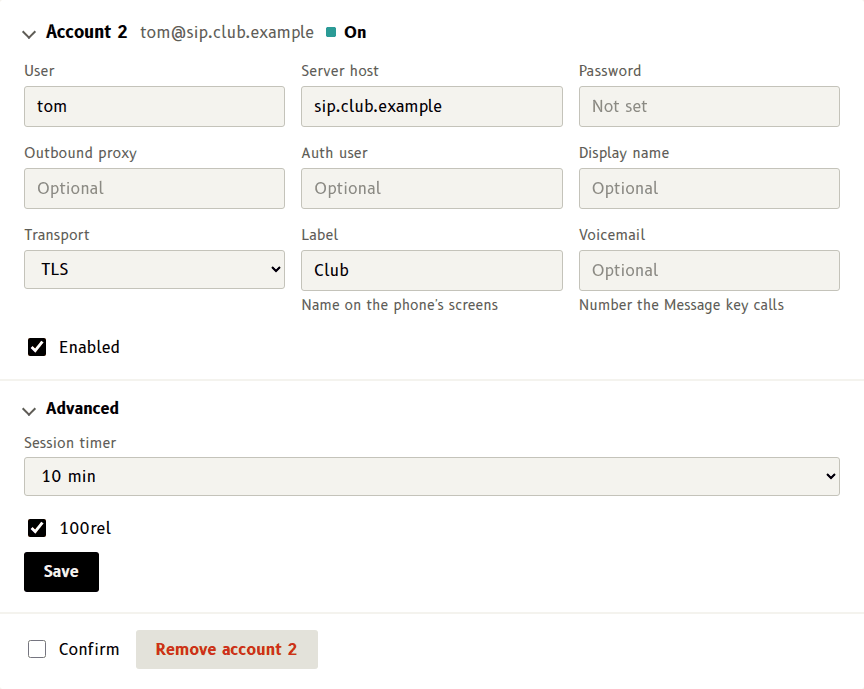
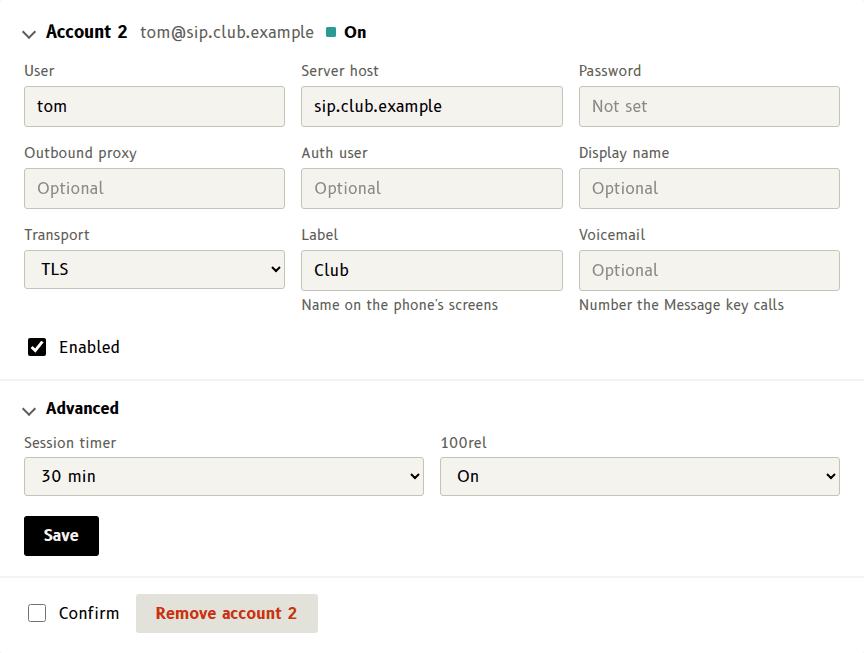
Session timers: review fixes, off by default
Off by default, as stock Yealink and Polycom phones ship; on per account with an interval (5 min to 1 h on the screens), and the docs say to turn it on if a provider drops calls at a fixed time. t48timer: a 100 Trying to a refresh UPDATE no longer drops the request, so the 200 is still taken; a refresh due while the call is mid re-INVITE waits 3 s; Session-Expires under 90 s gets 422 with Min-SE: 90; the timer list is emptied at shutdown; a lost session hangs up with "Session expired". 100rel is a choice on the phone and the web page, and Required, set by hand, is shown and kept. Tests: UPDATE answered 100 then 200, 422, the default off. Issue #77.

diff --git a/sip/modules/t48timer/t48timer.c b/sip/modules/t48timer/t48timer.c
@@ -5,13 +5,14 @@
  * the call's request now and then, so that proxies and B2BUAs keeping state
  * for it know it is still up; a call that is not refreshed in time is ended.
  *
- * An account with ;timer=N (seconds, 90 or more; t48-sip writes it):
+ * Off unless an account has ;timer=N (seconds, 90 or more; t48-sip writes
+ * it for session_timer=N):
  *  - says Supported: timer, so a caller that requires timers is answered
  *    rather than refused with 420;
  *  - asks for Session-Expires: N on the calls it makes;
  *  - on a call it is offered with Session-Expires, answers with the same
  *    interval and a refresher: the one the caller named, else the caller if
- *    it supports timers, else us;
+ *    it supports timers, else us; one below 90 s gets 422 and Min-SE: 90;
  *  - when it is the refresher, sends UPDATE with Session-Expires every half
  *    interval, or a re-INVITE if the other side does not allow UPDATE or
  *    refuses one. A refresh that times out or gets 408 or 481 ends the call,
@@ -29,7 +30,10 @@
 #include <re.h>
 #include <baresip.h>
 
-enum { MIN_SE = 90 };
+enum {
+	MIN_SE = 90,          /* RFC 4028's floor */
+	BUSY_MS = 3000,       /* refresh again when the call is mid-request */
+};
 
 struct st {
 	struct le le;
@@ -40,6 +44,8 @@ struct st {
 	bool refresher;          /* we refresh */
 	bool update;             /* the other side allows UPDATE */
 };
+
+static void refresh(void *arg);
 
 static struct list stl;
 
@@ -104,9 +110,6 @@ static bool allows_update(const struct sip_msg *msg)
 }
 
 
-static void refresh(void *arg);
-
-
 static void schedule(struct st *st)
 {
 	tmr_start(&st->tmr, st->se * 1000 / 2, refresh, st);
@@ -143,15 +146,18 @@ static void resp_handler(int err, const struct sip_msg *msg, void *arg)
 	uint32_t se;
 	char r;
 
+	/* a provisional answer: the request goes on */
+	if (!err && msg->scode < 200)
+		return;
 	st->req = mem_deref(st->req);
 	if (err || msg->scode == 408 || msg->scode == 481) {
 		info("t48timer: refresh failed (%m %u), call ended\n", err,
 		     msg ? msg->scode : 0);
-		ua_hangup(call_get_ua(st->call), st->call, 0, NULL);
+		/* closes the call, and with it this st */
+		ua_hangup(call_get_ua(st->call), st->call, 0,
+			  "Session expired");
 		return;
 	}
-	if (msg->scode < 200)
-		return;
 	if (msg->scode >= 300) {
 		/* no UPDATE here after all, or a clash: a re-INVITE instead */
 		info("t48timer: UPDATE refused (%u), re-INVITE instead\n",
@@ -179,6 +185,11 @@ static void refresh(void *arg)
 	struct sipsess *sess = call_sipsess(st->call);
 	int err;
 
+	/* a re-INVITE or UPDATE of the call's own is under way: soon */
+	if (!call_refresh_allowed(st->call)) {
+		tmr_start(&st->tmr, BUSY_MS, refresh, st);
+		return;
+	}
 	if (!st->update || !sess) {
 		reinvite(st);
 		return;
@@ -215,6 +226,18 @@ static struct st *st_new(struct call *call, uint32_t se, bool refresher,
 }
 
 
+static void too_small(void *arg)
+{
+	struct st *st = arg;
+
+	info("t48timer: %s: Session-Expires %u below %u, refused\n",
+	     call_id(st->call), st->se, MIN_SE);
+	/* closes the call, and with it this st */
+	ua_hangupf(call_get_ua(st->call), st->call, 422,
+		   "Session Interval Too Small", "Min-SE: %u\r\n", MIN_SE);
+}
+
+
 /* an incoming call offered with Session-Expires: answer with it */
 static void incoming(struct call *call)
 {
@@ -232,6 +255,14 @@ static void incoming(struct call *call)
 		/* baresip gave the call the account's own Session-Expires,
 		 * which is for the calls it makes */
 		call_set_custom_hdrs(call, &hdrs);
+		return;
+	}
+	if (se < MIN_SE) {
+		/* RFC 4028: 422 with our floor, and the caller tries again.
+		 * Not from inside this event: others still get the call. */
+		struct st *st = st_new(call, se, false, false);
+		if (st)
+			tmr_start(&st->tmr, 0, too_small, st);
 		return;
 	}
 	supports = sip_msg_hdr_has_value(msg, SIP_HDR_SUPPORTED, "timer") ||
@@ -283,6 +314,10 @@ static void event_handler(enum bevent_ev ev, struct bevent *event, void *arg)
 	struct call *call = bevent_get_call(event);
 	(void)arg;
 
+	if (ev == BEVENT_SHUTDOWN) {
+		list_flush(&stl);
+		return;
+	}
 	if (!call)
 		return;
 	switch (ev) {
@@ -301,7 +336,11 @@ static void event_handler(enum bevent_ev ev, struct bevent *event, void *arg)
 }
 
 
-/* every account with a timer offers it, and asks for it on its calls */
+/* every account with a timer offers it, and asks for it on its calls. The
+ * header goes in the account's custom headers, which baresip copies into
+ * each call it makes (and each it is offered: incoming() takes it out
+ * again). REGISTER does not get it: its copy was taken when the account
+ * was loaded, before this module starts (config: after account.so). */
 static bool ua_setup(struct le *le, void *arg)
 {
 	struct ua *ua = le->data;

diff --git a/webconfig/tests/test_web.py b/webconfig/tests/test_web.py
@@ -491,33 +491,42 @@ class Paired(unittest.TestCase):
         self.assertIsNone(p.get("phone", "dialplan"))
 
     def test_12_account_interop(self):
-        # an account's Advanced part: session timer and 100rel (issue #77)
+        # an account's Advanced part: session timer and 100rel, both off by default (issue #77)
         b, p = self.b, self.p
         base = {"n": "3", "user": "4004", "domain": "pbx.example.org", "transport": "udp", "enabled": "on"}
-        self.ok("/accounts/save", dict(base, session_timer="1800"), "/accounts")
+        self.ok("/accounts/save", dict(base, session_timer="off", **{"100rel": "off"}), "/accounts")
         self.assertIsNone(p.get("sip3", "session_timer"))          # the defaults are not written
         self.assertIsNone(p.get("sip3", "100rel"))
         page = b.get("/accounts").body
         self.assertIn("<span>Session timer</span>", page)
-        self.assertIn("<option value='1800' selected>30 min</option>", page)
+        self.assertIn("<option value='off' selected>Off</option><option value='300'>5 min</option>", page)
+        self.assertNotIn("value='90'", page)
+        self.assertNotIn("value='required'", page)
         self.assertIn("<details class='sub'><summary>Advanced</summary>", page)   # closed while all is usual
-        self.ok("/accounts/save", dict(base, session_timer="off", **{"100rel": "on"}), "/accounts")
-        self.assertEqual(p.get("sip3", "session_timer"), "off")
+        self.ok("/accounts/save", dict(base, session_timer="1800", **{"100rel": "on"}), "/accounts")
+        self.assertEqual(p.get("sip3", "session_timer"), "1800")
         self.assertEqual(p.get("sip3", "100rel"), "on")
         page = b.get("/accounts").body
-        self.assertIn("<option value='off' selected>Off</option>", page)
-        self.assertIn("name='100rel' value='on' checked", page)
+        self.assertIn("<option value='1800' selected>30 min</option>", page)
+        self.assertIn("<option value='on' selected>On</option>", page)
         self.assertIn("<details class='sub' open><summary>Advanced</summary>", page)
-        self.ok("/accounts/save", dict(base, session_timer="90"), "/accounts")
-        self.assertEqual(p.get("sip3", "session_timer"), "90")
-        self.assertIsNone(p.get("sip3", "100rel"))
-        # a value not on the list is refused and the stored one kept; one set by hand in the file is shown and kept
-        self.ok("/accounts/save", dict(base, session_timer="5"), "/accounts")
-        self.assertEqual(p.get("sip3", "session_timer"), "90")
+        # values not on the list are refused and the stored ones kept, as is a form without the part
+        self.ok("/accounts/save", dict(base, session_timer="5", **{"100rel": "maybe"}), "/accounts")
+        self.ok("/accounts/save", base, "/accounts")
+        self.assertEqual(p.get("sip3", "session_timer"), "1800")
+        self.assertEqual(p.get("sip3", "100rel"), "on")
+        # set by hand in the file: shown, and kept by a save that leaves them as they are
         p.set("sip3", "session_timer", "1200")
-        self.assertIn("<option value='1200' selected>1200 s</option>", b.get("/accounts").body)
-        self.ok("/accounts/save", dict(base, session_timer="1200"), "/accounts")
+        p.set("sip3", "100rel", "required")
+        page = b.get("/accounts").body
+        self.assertIn("<option value='1200' selected>1200 s</option>", page)
+        self.assertIn("<option value='required' selected>Required</option>", page)
+        self.ok("/accounts/save", dict(base, session_timer="1200", **{"100rel": "required"}), "/accounts")
         self.assertEqual(p.get("sip3", "session_timer"), "1200")
+        self.assertEqual(p.get("sip3", "100rel"), "required")
+        self.ok("/accounts/save", dict(base, session_timer="off", **{"100rel": "off"}), "/accounts")
+        self.assertIsNone(p.get("sip3", "session_timer"))
+        self.assertIsNone(p.get("sip3", "100rel"))
         self.ok("/accounts/remove", {"n": "3", "sure": "yes"}, "/accounts")
 
     def test_20_network(self):

diff --git a/webconfig/pages.c b/webconfig/pages.c
@@ -281,23 +281,28 @@ void page_overview(struct req *r)
 /* ---------- phone accounts ---------- */
 
 /* An account's Advanced part (issue #77, docs/sip.md#interoperability): session timer and 100rel.
- * Open when either is not the default. */
-static const char *const session_timers[][2] = {{"off", "Off"}, {"90", "90 s"}, {"600", "10 min"}, {"1800", "30 min"}, {"3600", "1 h"}};
+ * Open when either is not the default (off). */
+static const char *const session_timers[][2] = {{"off", "Off"}, {"300", "5 min"}, {"600", "10 min"}, {"1800", "30 min"}, {"3600", "1 h"}};
 #define NTIMERS ((int)(sizeof session_timers / sizeof session_timers[0]))
+/* required is listed only for a file that already says it */
+static const char *const rel100s[][2] = {{"off", "Off"}, {"on", "On"}, {"required", "Required"}};
 
 static void account_advanced(const char *f)
 {
-    const char *st = val(f, "session_timer", "1800");
-    int rel = !strcmp(val(f, "100rel", "off"), "on"), known = 0;
-    H("<details class='sub'%r><summary>Advanced</summary><div class='fields'>", strcmp(st, "1800") || rel ? " open" : "");
+    const char *st = val(f, "session_timer", "off"), *rel = val(f, "100rel", "off");
+    int known = 0;
+    H("<details class='sub'%r><summary>Advanced</summary><div class='fields'>", strcmp(st, "off") || strcmp(rel, "off") ? " open" : "");
     H("<label class='field'><span>Session timer</span><select name='session_timer'>");
     for (int i = 0; i < NTIMERS; i++) {
         known |= !strcmp(st, session_timers[i][0]);
         H("<option value='%s'%r>%s</option>", session_timers[i][0], !strcmp(st, session_timers[i][0]) ? " selected" : "", session_timers[i][1]);
     }
     if (!known) H("<option value='%s' selected>%s s</option>", st, st);   /* set by hand in the file: kept */
-    H("</select></label></div><label class='check'><input type='checkbox' name='100rel' value='on'%r> 100rel</label></details>",
-      rel ? " checked" : "");
+    H("</select></label><label class='field'><span>100rel</span><select name='100rel'>");
+    for (int i = 0; i < 3; i++)
+        if (i < 2 || !strcmp(rel, "required"))
+            H("<option value='%s'%r>%s</option>", rel100s[i][0], !strcmp(rel, rel100s[i][0]) ? " selected" : "", rel100s[i][1]);
+    H("</select></label></div></details>");
 }
 
 static void page_accounts(struct req *r)
@@ -403,14 +408,17 @@ static void post_account_save(struct req *r)
         return;
     }
     if (strcmp(tr, "udp") && strcmp(tr, "tcp") && strcmp(tr, "tls")) tr = "udp";
-    /* the Advanced part: the defaults are not written; an interval set by hand in the file comes back as it was */
-    const char *st = form(r, "session_timer");
-    int st_ok = !strcmp(st, val(f, "session_timer", "1800"));
+    /* the Advanced part: off, the default, is not written; a value set by hand in the file comes back as it was;
+     * anything else (or a form without the part) leaves the file alone */
+    const char *st = form(r, "session_timer"), *rel = form(r, "100rel");
+    int st_ok = !strcmp(st, val(f, "session_timer", "off")), rel_ok = !strcmp(rel, val(f, "100rel", "off"));
     for (int i = 0; i < NTIMERS; i++) st_ok |= !strcmp(st, session_timers[i][0]);
-    if (!st_ok || !strcmp(st, "1800")) st = st_ok ? "" : NULL;
+    rel_ok |= !strcmp(rel, "off") || !strcmp(rel, "on");
+    st = !st_ok ? NULL : !strcmp(st, "off") ? "" : st;
+    rel = !rel_ok ? NULL : !strcmp(rel, "off") ? "" : rel;
     for (int i = 0; i < 7 && ok; i++) ok = set(f, keys[i], v[i]) == 0;
     if (ok && st) ok = set(f, "session_timer", st) == 0;
-    if (ok) ok = set(f, "100rel", !strcmp(form(r, "100rel"), "on") ? "on" : NULL) == 0;
+    if (ok && rel) ok = set(f, "100rel", rel) == 0;
     if (ok) ok = cfg_set(f, "transport", tr) == 0 && cfg_set(f, "enabled", !strcmp(form(r, "enabled"), "on") ? "on" : "off") == 0;
     if (ok && pw[0]) ok = cfg_set(f, "password", pw) == 0;
     memset(pw, 0, sizeof pw);

diff --git a/sip/test/uac.py b/sip/test/uac.py
@@ -22,6 +22,7 @@ the audio.
   uac.py answer PORT [OPTION...]        answer one INVITE on 127.0.0.1:PORT
     hdr=NAME:VALUE      add a header to the 200 (repeatable)
     rel100              send 183 reliably first (needs the caller's support)
+    slow-update         answer UPDATE with 100 Trying, then 200 half a second later
     hold=SECONDS        how long to wait for refreshes and the BYE (default 10)
 """
 import random, re, socket, sys, time
@@ -59,6 +60,7 @@ class Peer:
         self.cseq = 1
         self.tag = "%08x" % random.getrandbits(32)
         self.rtp = port + 1000
+        self.slow_update = False
 
     def send(self, text, dest):
         self.s.sendto(text.encode(), dest)
@@ -88,6 +90,9 @@ class Peer:
         method = first.split()[0]
         if method == "ACK":
             return method
+        if method == "UPDATE" and self.slow_update:
+            self.reply(first, h, src, 100, "Trying")
+            time.sleep(0.5)
         if method == "INVITE":
             self.reply(first, h, src, 200, "OK", body=SDP % self.rtp)
         else:
@@ -98,12 +103,12 @@ class Peer:
 
 
 def opts(args):
-    o = {"hdr": [], "refresh": [], "hold": None, "answer-after": None, "expect-bye": False, "rel100": False, "no-update": False}
+    o = {"hdr": [], "refresh": [], "hold": None, "answer-after": None, "expect-bye": False, "rel100": False, "no-update": False, "slow-update": False}
     for a in args:
         k, _, v = a.partition("=")
         if k in ("hdr", "refresh"):
             o[k].append(v)
-        elif k in ("expect-bye", "rel100", "no-update"):
+        elif k in ("expect-bye", "rel100", "no-update", "slow-update"):
             o[k] = True
         else:
             o[k] = v
@@ -245,6 +250,7 @@ def call(target, port, o):
 
 def answer(port, o):
     p = Peer(port)
+    p.slow_update = o["slow-update"]
     hold = float(o["hold"] or 10)
     end = None
     extra = "".join("%s\r\n" % x.replace(":", ": ", 1) for x in o["hdr"])

diff --git a/shell/settings.c b/shell/settings.c
@@ -826,8 +826,10 @@ static void build_sipadv(const char *arg)
 {
     const char *f = sip_file(atoi(arg) < 1 ? 1 : atoi(arg));
     snprintf(title, sizeof title, "Advanced");
-    add_stored(R_CHOICE, "Session timer", f, "session_timer", "1800", 0)->choices = "off|90|600|1800|3600";
-    add_stored(R_TOGGLE, "100rel", f, "100rel", "off", 0);
+    add_stored(R_CHOICE, "Session timer", f, "session_timer", "off", 0)->choices = "off|300|600|1800|3600";
+    /* required is offered only to a file that already says it */
+    struct row *r = add_stored(R_CHOICE, "100rel", f, "100rel", "off", 0);
+    r->choices = !strcmp(r->value, "required") ? "off|on|required" : "off|on";
 }
 
 static void build_net(void)
@@ -1870,7 +1872,8 @@ static const char *choice_text(const char *v)
 {
     static const char *const map[][2] = {{"dhcp", "DHCP"}, {"static", "Static"}, {"udp", "UDP"}, {"tcp", "TCP"}, {"tls", "TLS"},
                                              {"stable", "Stable"}, {"testing", "Testing"}, {"off", "Off"},
-                                             {"90", "90 s"}, {"600", "10 min"}, {"1800", "30 min"}, {"3600", "1 h"}};
+                                             {"on", "On"}, {"required", "Required"}, {"300", "5 min"}, {"600", "10 min"},
+                                             {"1800", "30 min"}, {"3600", "1 h"}};
     for (unsigned i = 0; i < sizeof map / sizeof map[0]; i++)
         if (!strcmp(v, map[i][0])) return map[i][1];
     return v;

diff --git a/docs/sip.md b/docs/sip.md
@@ -51,7 +51,7 @@ docker run --rm -u $(id -u):$(id -g) -e HOME=/work -e T=/work/t48s \
 - `sip/build.sh` downloads pinned, checksummed sources and builds into `$T/sip-arm/bin/baresip`. `TARGET=host` builds the same thing for the PC; `TLS=1` the TLS variant. Licence texts of everything linked in are copied to `$T/sip-*/share/licences/`; they ship with the binary.
 - A build takes a minute or two on 8 cores. The container image is about 2 GB.
 
-The phone's image builds the same thing with Buildroot (#16): packages `libre`, `libg722` and `baresip` in `buildroot/package`, with the same versions and checksums, the libre patch from `sip/patches`, Buildroot's mbedTLS, and the module list read from `sip/build.sh`. They install `baresip`, `t48-sip`, the config and `sip.example` in `/usr/share/t48/sip`, and the licence texts; nothing starts baresip at boot. The scripts stay for the PC build and the call test.
+The phone's image builds the same thing with Buildroot (#16): packages `libre`, `libg722` and `baresip` in `buildroot/package`, with the same versions and checksums, the patches from `sip/patches` (libre's and baresip's), Buildroot's mbedTLS, and the module list read from `sip/build.sh`. They install `baresip`, `t48-sip`, the config and `sip.example` in `/usr/share/t48/sip`, and the licence texts; nothing starts baresip at boot. The scripts stay for the PC build and the call test.
 
 ## Running it
 
@@ -97,7 +97,7 @@ Issue #77. What baresip 4.13 and libre 4.13 do on their own, what we changed, an
 | Transparent proxy (no Record-Route) | always | Kamailio without `record_route()`, both phones on UDP | the same requests go straight between the phones |
 | Stateful proxy | always | every test: Kamailio is transaction stateful (`tm`) | passes |
 | B2BUA-like topology hiding | always | Kamailio's `topos`: each side sees only the proxy in Via, Contact and Record-Route | call, hold, resume, hang up pass |
-| Session timers (RFC 4028) | **on, 1800 s**, per account | far end as caller and as callee, either side the refresher, by UPDATE and by re-INVITE (with and without SDP); a caller that requires timers; a caller without them; the setting off | all pass; the phone refreshes every half interval |
+| Session timers (RFC 4028) | **off**, per account; on with an interval | far end as caller and as callee, either side the refresher, by UPDATE (also one answered 100, then 200) and by re-INVITE (with and without SDP); a caller that requires timers; a caller without them; a caller asking for 60 s; the setting off | all pass; when on, the phone refreshes every half interval and refuses under 90 s with 422 |
 | Session timers through a proxy that enforces them | as above | Kamailio's `sst` at 90 s, which ends calls that are not refreshed | refreshed calls stay up past 130 s; a call nobody refreshes is ended (61 s) |
 | 100rel and PRACK (RFC 3262) | **off**, per account | two phones with it on; a caller that requires it; early media in a reliable 183; a phone that requires it | all pass (with the setting on where it must be) |
 
@@ -105,9 +105,9 @@ Both settings are under Advanced on an account's page, on the phone and on the w
 
 ![An account's Advanced page on the phone](img/settings-account-interop.png) ![The same on the web setup page](img/web-account-interop.png)
 
-**Session timers.** baresip has none, so a caller that required them got 420 and nothing ever refreshed a call. Our module `t48timer` adds them: the phone says `Supported: timer` and asks for `Session-Expires: 1800` on calls it makes; offered a call with Session-Expires it answers with that interval and a refresher (the one the caller named, else the caller if it supports timers, else the phone). When the phone is the refresher it sends UPDATE every half interval, or re-INVITE if the far end does not allow UPDATE or refuses it. A refresh that times out or gets 408 or 481 ends the call, as RFC 4028 says. Settings: `session_timer=SECONDS` (90 or more) or `off`. Off is plain baresip: no timers offered, the far end refreshes if it wants to (RFC 4028 makes it), a caller that requires them gets 420. Limits: the phone's 2xx to the far end's own refresh has no Session-Expires, which by the RFC turns the timer off after it (the far end may stop refreshing, nothing is ended); and the phone does not end a call itself when the far end, as refresher, stops refreshing: the RTP timeout (60 s) does that.
+**Session timers.** baresip has none, so a caller that required them got 420 and nothing ever refreshed a call. Our module `t48timer` adds them. They are **off by default**, as stock Yealink and Polycom phones ship, because providers that use them refresh calls themselves when the phone does not. Turn them on for an account (Advanced, Session timer) if its provider drops calls at a fixed time into them, such as 15 or 30 minutes. When on, the phone says `Supported: timer` and asks for its chosen interval on calls it makes; offered a call with Session-Expires it answers with that interval (under 90 s: 422 with `Min-SE: 90`) and a refresher (the one the caller named, else the caller if it supports timers, else the phone). When the phone is the refresher it sends UPDATE every half interval, or re-INVITE if the far end does not allow UPDATE or refuses it. A refresh that times out or gets 408 or 481 ends the call, as RFC 4028 says. Settings: `session_timer=SECONDS` (90 or more; the screens offer 5 min to 1 h, as some servers refuse less than 120 s) or `off`. Off is plain baresip: no timers offered, the far end refreshes if it wants to (RFC 4028 makes it), a caller that requires them gets 420. Limits: the phone's 2xx to the far end's own refresh has no Session-Expires, which by the RFC turns the timer off after it (the far end may stop refreshing, nothing is ended); the phone's own refresh re-INVITE, used when UPDATE is not allowed, carries no Session-Expires either (libre has no way to add it); and the phone does not end a call itself when the far end, as refresher, stops refreshing: the RTP timeout (60 s) does that.
 
-**100rel.** baresip's default, kept: off. A caller that requires it gets 420, which RFC 3261 says it should answer by calling again without; one that only supports it gets an ordinary 180, and early media in an ordinary 183 plays. `100rel=on` adds `Supported: 100rel` and PRACK, sends 180 reliably to callers that support it and acknowledges reliable 18x. On, libre sends the reliable 180 without SDP, which some strict callers may reject: hence off by default. `100rel=required` refuses callers without it (421). One fix: answering before the caller's PRACK came in was refused by baresip; `t48ctrl` now tries the answer again every 100 ms for up to 10 s.
+**100rel.** baresip's default, kept: off. A caller that requires it gets 420, which RFC 3261 says it should answer by calling again without; one that only supports it gets an ordinary 180, and early media in an ordinary 183 plays. `100rel=on` adds `Supported: 100rel` and PRACK, sends 180 reliably to callers that support it and acknowledges reliable 18x. On, libre sends the reliable 180 without SDP, which some strict callers may reject: hence off by default. `100rel=required` refuses callers without it (421); the screens offer Off and On, and show Required only for a file that already says it. One fix: answering before the caller's PRACK came in was refused by baresip; `t48ctrl` now tries the answer again every 100 ms for up to 10 s.
 
 **TCP and TLS.** The phone's Contact on a TCP or TLS account is its end of the connection to the server, so a far end cannot open a new connection to it. A server on TCP or TLS has to Record-Route, which every provider does; a transparent proxy works over UDP only.
 

diff --git a/docs/settings.md b/docs/settings.md
@@ -14,7 +14,7 @@ Press **Down** on the idle screen, or touch **Settings**. Everything here can al
 
 | Page | What it sets | Takes effect |
 |---|---|---|
-| Accounts | up to six accounts ([phone.md](phone.md#several-accounts)), and which is the default for calls. For each: User, Password, Server host (`host:port` for a port), Outbound proxy, Auth user, Display name, Transport, Label (a short name for this phone's screens), Voicemail, Enabled, Advanced (Session timer: Off, 90 s to 1 h, 30 min by default; 100rel: off by default; [sip.md](sip.md#interoperability)), and Remove account. Advanced: the dial plan ([phone.md](phone.md#dial-plan)), empty for the default | on leaving an account's page: baresip is restarted if it is running. The usual account changes at once |
+| Accounts | up to six accounts ([phone.md](phone.md#several-accounts)), and which is the default for calls. For each: User, Password, Server host (`host:port` for a port), Outbound proxy, Auth user, Display name, Transport, Label (a short name for this phone's screens), Voicemail, Enabled, Advanced (Session timer: Off, 5 min to 1 h, off by default; 100rel: Off or On, off by default; [sip.md](sip.md#interoperability)), and Remove account. Advanced: the dial plan ([phone.md](phone.md#dial-plan)), empty for the default | on leaving an account's page: baresip is restarted if it is running. The usual account changes at once |
 | Do not disturb | on or off, the same as Right on the idle screen ([phone.md](phone.md#do-not-disturb)) | at once |
 | Network | DHCP, or a fixed address, netmask, gateway and DNS server | on leaving the page. If the address is a different one, baresip is started again, as it listens on the address it started with |
 | Date and time | time zone, from a list | at once, in the shell and in apps started afterwards |
@@ -43,7 +43,7 @@ Plain text in `/data/config`, one file per subject, `key=value` a line, `#` for 
 
 | File | Keys |
 |---|---|
-| `sip` | account 1: `user`, `password`, `domain`, `outbound_proxy`, `auth_user`, `display_name`, `transport` (udp, tcp, tls), `register_seconds`: the file `t48-sip` has always read ([sip.md](sip.md#running-it)). Also `enabled` (on or off), `label` (the name on this phone's screens), `voicemail` (the number the Message key calls), `mwi` (off: do not ask the server about waiting messages), `session_timer` (seconds or off, default 1800), `100rel` (off, on or required, default off) ([sip.md](sip.md#interoperability)) |
+| `sip` | account 1: `user`, `password`, `domain`, `outbound_proxy`, `auth_user`, `display_name`, `transport` (udp, tcp, tls), `register_seconds`: the file `t48-sip` has always read ([sip.md](sip.md#running-it)). Also `enabled` (on or off), `label` (the name on this phone's screens), `voicemail` (the number the Message key calls), `mwi` (off: do not ask the server about waiting messages), `session_timer` (off, the default, or seconds, 90 or more), `100rel` (off, on or required, default off) ([sip.md](sip.md#interoperability)) |
 | `sip2` to `sip6` | accounts 2 to 6, the same keys |
 | `phone` | `default_account`: 1 to 6, the account calls go out from unless another is chosen. `dnd`: on or off. `dialplan`: a digit map ([phone.md](phone.md#dial-plan)); missing is the default |
 | `network` | `mode` (dhcp or static), `address`, `netmask`, `gateway`, `dns` |
